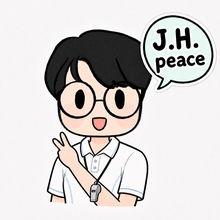
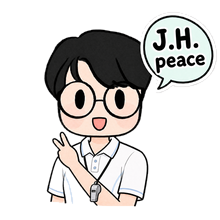
pwa-0.50.0 제출 진행 게이지 + 캐릭터 배경 투명
- 유산소·근력·성찰 제출 시 진행 게이지 표시
  사진이 올라가는 만큼 실제 진행률(XHR upload)로 채우고,
  서버 저장 중에는 95%까지 천천히, 끝나면 «완료»
- 캐릭터 스티커 6종 배경(흰색)을 투명 처리
- 인라인 캐릭터 이모티콘 44 → 60px (말풍선이 보이도록)
- 공지 팝업을 다 확인하면 공지 목록 갱신 — «읽음»으로 남음

diff --git a/index.html b/index.html
@@ -1,5 +1,6 @@
-<!-- 코드명: 혜원핏 PWA 학생앱 | index.html | @version 0.49.0 -->
-<!-- 수정요약: [0.49.0] 앱 시작 스플래시 추가 — 로크 문구 액자(splash-locke.jpg, 1080x2160)를 전체화면으로 1.8초 보여주고 스르르 사라진다. 탭하면 바로 넘어감. 체력 화면의 «유연성·신체조성» 이모지를 그림 아이콘(ic-flex/ic-body)으로 교체. -->
+<!-- 코드명: 혜원핏 PWA 학생앱 | index.html | @version 0.50.0 -->
+<!-- 수정요약: [0.50.0] 제출할 때 진행 게이지 표시 — 유산소·근력·성찰. 사진이 올라가는 만큼 실제 진행률(XHR upload)로 채우고, 서버 저장 중에는 95%까지 천천히, 끝나면 «완료». 캐릭터 스티커 배경 투명 처리. 공지 팝업을 다 확인하면 공지 목록을 갱신해 «읽음»으로 남게. -->
+<!--   [0.49.0] 앱 시작 스플래시 추가 — 로크 문구 액자(splash-locke.jpg, 1080x2160)를 전체화면으로 1.8초 보여주고 스르르 사라진다. 탭하면 바로 넘어감. 체력 화면의 «유연성·신체조성» 이모지를 그림 아이콘(ic-flex/ic-body)으로 교체. -->
 <!--   [0.48.3] 운동 이름을 구체적으로 쓰도록 ✗/✓ 예시 안내 — 세 부위 공통 안내에 «근력운동·스트레칭» 같은 뭉뚱그린 표현 금지와 좋은 예시, 상체·하체·유연성 칸마다 예시 목록. 유연성은 유튜브 영상 제목·채널명까지. -->
 <!--   [0.48.2] 체력 변화 화면이 [object Object] 로 깨지던 것 수정 — 0.47.3에서 추가한 chartCard 매개변수 raw 가 기존 지역변수 raw(변화량)와 이름이 겹쳐 덮어써졌다. asData/delta 로 분리. -->
 <!--   [0.48.1] 유연성 칸 아래 작성 안내문 추가 — «스트레칭»이라고만 쓰지 말고 동작 이름을, 유튜브를 따라 했으면 영상 제목·채널명을 정확히 적도록. 상체 예시도 «무릎대고 팔굽혀펴기»로 통일. -->
@@ -112,6 +113,20 @@ body{margin:0;font-family:Pretendard,-apple-system,system-ui,sans-serif;backgrou
 .guidebox b{color:var(--primary-dark)}
 .guidebox p{margin:5px 0 0;font-size:12.5px}
 .guidebox ol{margin:6px 0 0;padding-left:18px;font-size:12.5px;line-height:1.75}
+/* [0.50.0] 제출 진행 게이지 */
+#prog{position:fixed;inset:0;z-index:150;background:rgba(10,20,12,.55);
+  display:flex;align-items:center;justify-content:center;padding:26px}
+#prog.hidden{display:none}
+.pg-in{background:#fff;border-radius:18px;padding:22px 22px 20px;width:100%;max-width:330px;
+  box-shadow:0 20px 60px rgba(0,0,0,.3);text-align:center}
+.pg-t{font-size:16px;font-weight:800;color:var(--ink);margin:0 0 4px}
+.pg-s{font-size:12.5px;color:var(--muted);margin:0 0 14px;min-height:18px}
+.pg-bar{height:12px;border-radius:99px;background:var(--divider);overflow:hidden}
+.pg-fill{height:100%;width:0;border-radius:99px;background:var(--primary);
+  transition:width .35s ease}
+.pg-fill.ok{background:var(--primary)}
+.pg-fill.bad{background:var(--danger)}
+.pg-n{font-size:12px;font-weight:800;color:var(--primary-dark);margin:9px 0 0}
 /* [0.49.0] 앱 시작 스플래시 — 로크 문구 액자를 잠깐 보여주고 사라진다 */
 #boot{position:fixed;inset:0;z-index:200;background:#ece0c4 url('splash-locke.jpg') center/cover no-repeat;
   transition:opacity .55s ease;cursor:pointer}
@@ -147,7 +162,7 @@ body{margin:0;font-family:Pretendard,-apple-system,system-ui,sans-serif;backgrou
 /* 선생님 코멘트 말풍선 (캐릭터 스티커) */
 .tbub{display:flex;align-items:flex-start;gap:10px}
 .tbub-st{width:76px;height:76px;flex:none;object-fit:contain}
-.emo{width:44px;height:44px;object-fit:contain;vertical-align:-13px;margin:0 2px}
+.emo{width:60px;height:60px;object-fit:contain;vertical-align:-18px;margin:0 2px}
 .tbub div{line-height:1.85}
 /* 운동자각도 · 만족도 */
 .rpe{display:flex;gap:4px;margin-top:4px}
@@ -700,6 +715,16 @@ img.ic{width:24px;height:24px;display:block;object-fit:contain;
     </div>
   </div>
 
+  <!-- [0.50.0] 제출 진행 게이지 -->
+  <div id="prog" class="hidden">
+    <div class="pg-in">
+      <p class="pg-t" id="pg-title">제출하는 중</p>
+      <p class="pg-s" id="pg-sub">준비하고 있어요…</p>
+      <div class="pg-bar"><div class="pg-fill" id="pg-fill"></div></div>
+      <p class="pg-n" id="pg-num">0%</p>
+    </div>
+  </div>
+
   <!-- [0.49.0] 시작 스플래시 (탭하면 바로 넘어감) -->
   <div id="boot" onclick="bootOut()"></div>
 
@@ -1070,12 +1095,67 @@ function resetCardio(){cardioB64=null;cardioAI=null;['c-dist','c-dur','c-pace','
 function saveCardio(){
   if(!pnCheck('c'))return;
   if(!reflectCheck('c-reflect'))return;
-  call('submitCardio',[ST.student.학번,{imageBase64:cardioB64,date:ST.cardioDate,
+  progOpen('유산소 인증 제출');
+  callP('submitCardio',[ST.student.학번,{imageBase64:cardioB64,date:ST.cardioDate,
     distanceKm:val('c-dist'),durationMin:val('c-dur'),summary:'페이스 '+val('c-pace')+' · '+val('c-kcal')+'kcal',source:'앱',
     reflect:val('c-reflect'),rpe:PICK.c.rpe,sat:PICK.c.sat,partner:pnValue('c'),
     aiDistanceKm:(cardioAI?cardioAI.km:''),aiDurationMin:(cardioAI?cardioAI.min:'')}],
-    function(r){toast('✅ 유산소 인증 저장'+savedMsg(r));resetCardio();resetPick('c');pnReset('c');loadPartners();go('home');});
+    function(r){progDone('유산소 인증 완료!',function(){
+      toast('✅ 유산소 인증 저장'+savedMsg(r));
+      resetCardio();resetPick('c');pnReset('c');loadPartners();go('home');});});
 }
+/* [0.50.0] 제출 진행 게이지 — 사진 올라가는 만큼 실제로 채워진다 */
+var PG={timer:null,pct:0};
+function progOpen(title){
+  PG.pct=0; if(PG.timer){clearInterval(PG.timer);PG.timer=null;}
+  document.getElementById('pg-title').textContent=title||'제출하는 중';
+  document.getElementById('pg-sub').textContent='준비하고 있어요…';
+  var f=document.getElementById('pg-fill'); f.className='pg-fill'; f.style.width='0%';
+  document.getElementById('pg-num').textContent='0%';
+  document.getElementById('prog').classList.remove('hidden');
+}
+function progSet(pct,sub){
+  PG.pct=Math.max(PG.pct,Math.min(100,Math.round(pct)));
+  document.getElementById('pg-fill').style.width=PG.pct+'%';
+  document.getElementById('pg-num').textContent=PG.pct+'%';
+  if(sub)document.getElementById('pg-sub').textContent=sub;
+}
+/* 서버가 처리하는 동안엔 진행률을 알 수 없다 → 95%까지 천천히 */
+function progWait(sub){
+  progSet(PG.pct,sub||'선생님 시트에 저장하는 중…');
+  if(PG.timer)clearInterval(PG.timer);
+  PG.timer=setInterval(function(){ if(PG.pct<95)progSet(PG.pct+1); },260);
+}
+function progDone(msg,cb){
+  if(PG.timer){clearInterval(PG.timer);PG.timer=null;}
+  progSet(100,msg||'다 됐어요!');
+  setTimeout(function(){document.getElementById('prog').classList.add('hidden');cb&&cb();},650);
+}
+function progFail(msg){
+  if(PG.timer){clearInterval(PG.timer);PG.timer=null;}
+  document.getElementById('pg-fill').className='pg-fill bad';
+  document.getElementById('pg-sub').textContent=msg||'실패했어요. 다시 시도해 주세요.';
+  setTimeout(function(){document.getElementById('prog').classList.add('hidden');},1500);
+}
+/* 업로드 진행률을 알 수 있는 통신 (XHR) — 사진이 큰 인증에 쓴다 */
+function callP(fn,args,cb){
+  var xhr=new XMLHttpRequest();
+  xhr.open('POST',API_BASE,true);
+  xhr.setRequestHeader('Content-Type','text/plain;charset=utf-8');
+  xhr.upload.onprogress=function(e){
+    if(e.lengthComputable)progSet(4+(e.loaded/e.total)*76,'사진과 기록을 올리는 중…');
+  };
+  xhr.upload.onload=function(){progWait();};
+  xhr.onload=function(){
+    var x=null; try{x=JSON.parse(xhr.responseText);}catch(err){}
+    if(x&&x.authFail){logout();return;}
+    if(!x){progFail('응답을 읽지 못했어요');return;}
+    cb&&cb(x);
+  };
+  xhr.onerror=function(){progFail('네트워크 오류 · 연결을 확인하세요');};
+  xhr.send(JSON.stringify({action:fn,token:localStorage.getItem('grofit_token')||'',args:args||[]}));
+}
+
 /* [0.49.0] 시작 스플래시 — 1.8초 뒤 스르르 사라진다. 탭하면 바로 넘어감 */
 var BOOT_DONE=false;
 function bootOut(){
@@ -1268,13 +1348,15 @@ function saveStrength(){
     toast('타임마크 사진이 아니에요. 다시 찍거나 선생님께 확인 요청을 눌러주세요');return;
   }
   if(!pnCheck('s'))return;
-  call('submitStrength',[ST.student.학번,{imageBase64:strB64,date:ST.strDate,summary:rows.join(', '),reflect:val('st-reflect'),
+  progOpen('근력 인증 제출');
+  callP('submitStrength',[ST.student.학번,{imageBase64:strB64,date:ST.strDate,summary:rows.join(', '),reflect:val('st-reflect'),
     rpe:PICK.s.rpe,sat:PICK.s.sat,check:strCheck,exception:strException,partner:pnValue('s')}],
-    function(r){toast(strB64?('✅ 근력 인증 저장'+savedMsg(r)):'📝 기록만 저장됨 · 사진이 없어 인정되지 않아요');
-    strB64=null;strCheck=null;strException=null;
-    document.getElementById('str-check').innerHTML='';resetStrRows();resetPick('s');pnReset('s');loadPartners();
-    document.getElementById('st-reflect').value='';countReflect('st-reflect','st-reflect-n');
-    document.getElementById('str-prev').classList.add('hidden');go('home');});
+    function(r){progDone(strB64?'근력 인증 완료!':'기록만 저장했어요',function(){
+      toast(strB64?('✅ 근력 인증 저장'+savedMsg(r)):'📝 기록만 저장됨 · 사진이 없어 인정되지 않아요');
+      strB64=null;strCheck=null;strException=null;
+      document.getElementById('str-check').innerHTML='';resetStrRows();resetPick('s');pnReset('s');loadPartners();
+      document.getElementById('st-reflect').value='';countReflect('st-reflect','st-reflect-n');
+      document.getElementById('str-prev').classList.add('hidden');go('home');});});
 }
 
 /* ---------- 체력측정 (PAPS 자동 판정) ----------
@@ -1778,9 +1860,11 @@ function saveReflect(){
   var t=document.getElementById('rf-text').value.trim();if(!t){toast('내용을 입력하세요');return;}
   var wk=ST.config?ST.config.총_주차수:1;
   call('getStudentHome',[ST.student.학번],function(h){
-    call('submitReflection',[ST.student.학번,h?h.현재주차:1,t],function(r){
-      toast('✅ 성찰 제출 완료'+savedMsg(r));document.getElementById('rf-text').value='';
-      showSaved('saved-reflect',r&&r.savedAt,true);loadReflect();});
+    progOpen('성찰 제출');
+    callP('submitReflection',[ST.student.학번,h?h.현재주차:1,t],function(r){
+      progDone('성찰 제출 완료!',function(){
+        toast('✅ 성찰 제출 완료'+savedMsg(r));document.getElementById('rf-text').value='';
+        showSaved('saved-reflect',r&&r.savedAt,true);loadReflect();});});
   });
 }
 
@@ -1877,6 +1961,7 @@ function showPop(){
   document.getElementById('pop-btn').textContent=(POPi+1<POP.length)?'확인했어요 · 다음':'확인했어요';
   box.classList.remove('hidden');
 }
+/* [0.50.0] 확인한 공지는 공지 탭에 «읽음»으로 남는다 — 팝업이 끝나면 목록 갱신 */
 function popConfirm(){
   var n=POP[POPi];
   if(!n){document.getElementById('nt-pop').classList.add('hidden');return;}
@@ -1884,6 +1969,7 @@ function popConfirm(){
   call('markNoticeRead',[ST.student.학번,n.공지ID],function(){
     document.getElementById('pop-btn').disabled=false;
     POPi++; showPop();
+    if(POPi>=POP.length && ST.student) loadNoticesStudent();
     if(POPi>=POP.length)toast('공지를 모두 확인했어요');
   });
 }

diff --git a/sw.js b/sw.js
@@ -1,5 +1,5 @@
 /* 그로핏 PWA 서비스워커 | 버전 올리면 캐시 갱신·자동 새로고침 */
-var CACHE = 'grofit-v0.49.0';
+var CACHE = 'grofit-v0.50.0';
 var ASSETS = ['./', './index.html',
   './tab-home.png', './tab-cert.png', './tab-fit.png', './tab-reflect.png', './tab-score.png', './tab-notice.png', './ic-cardio.png', './ic-strength.png',
   './st-verygood.png','./st-good.png','./st-nice.png','./st-peace.png','./st-regret.png','./st-frustration.png',
